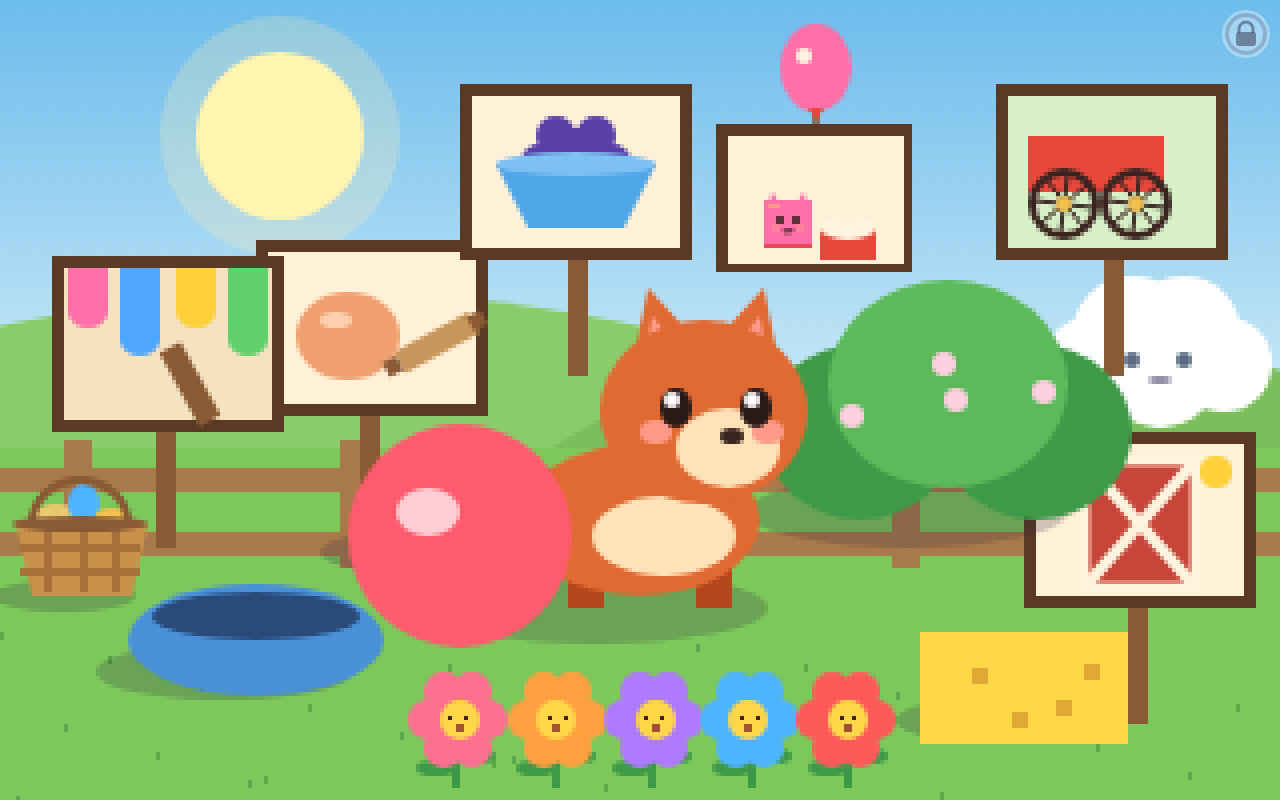
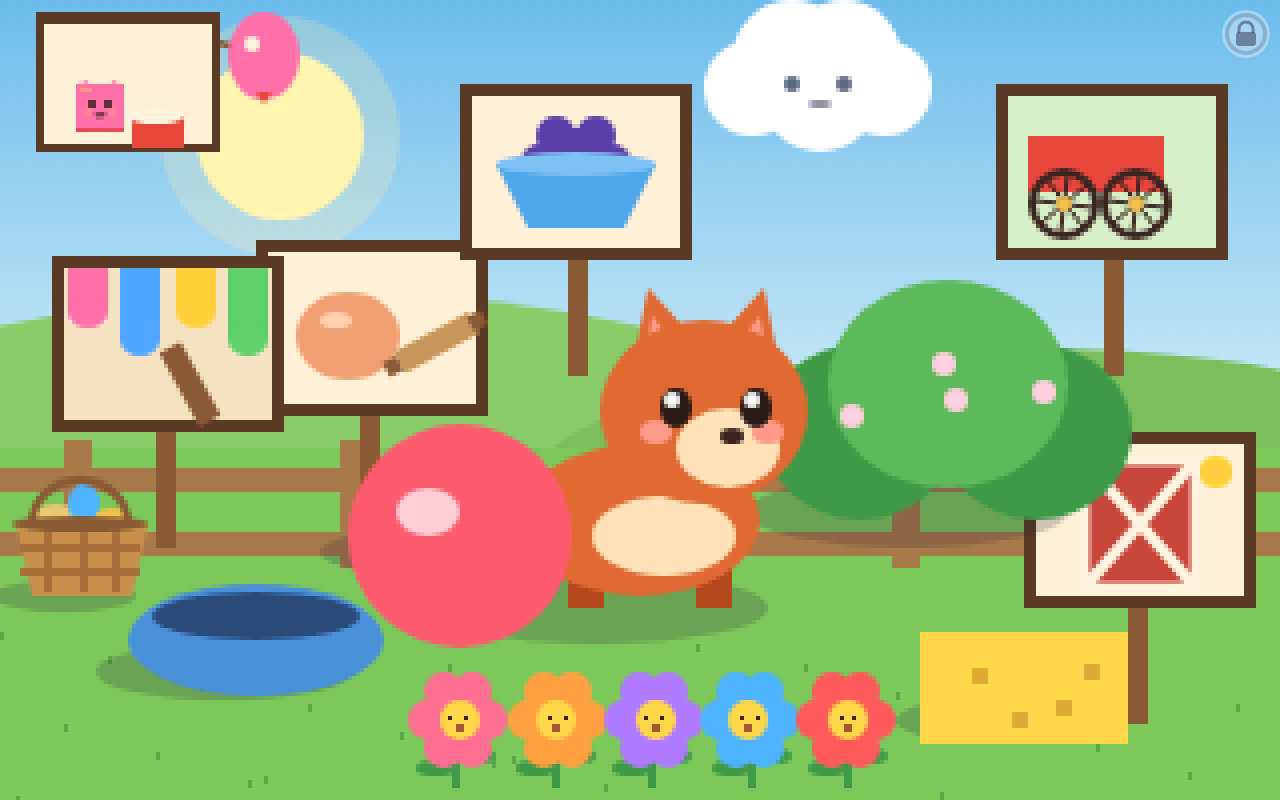
LR-TOYS-POLISH: place the cloud and the pack sign together in the sky.
The cloud stays at its home height and only slides sideways. The pack sign hangs beside the board when the sky has no room overhead. The face test covers the whole face region.

Changed region(s): [[0.5312, 0.0, 0.75, 0.3438], [0.0312, 0.0, 0.25, 0.1875], [0.8125, 0.3438, 1.0, 0.5312]]

diff --git a/games/little-ranch/game.js b/games/little-ranch/game.js
@@ -272,9 +272,12 @@
     const basket = { x0: L.basket.x - L.basket.r, x1: L.basket.x + L.basket.r, y0: L.basket.y - L.basket.r, y1: L.basket.y + L.basket.r };
     const meadow = [circ(L.bowl.x, L.bowl.y - R * .25, R * 1.15), circ(L.sponge.x, L.sponge.y, R * .8 * .75), circ(L.fhome.x, L.fhome.y - L.fz * .7, L.fz), basket, bushBox, body,
       ...[-1, 1].map(k => { const q = ballSpot(k); return circ(q.x, q.y, q.r); }), ...L.flowers.map(fl => circ(fl.x, fl.y, fl.r))];
-    // A short wide meadow has no full-size gap that stays off the baby, so a slightly smaller sign may sit in the sky.
+    // The cloud and the pack sign are chosen together. The cloud stays in the sky and only slides sideways. A balloon overhead is tried before one that hangs beside the board.
+    const anchor = { side: 0 };
     const search = (s, minMul) => {
       const rs = R * s * .95, yMax = fence - rs * .27 - 1; let best = null, cost = Infinity;
+      const ellHits = (p, rect) => { const nx = Math.max(rect.x0, Math.min(p.x, rect.x1)), ny = Math.max(rect.y0, Math.min(p.y, rect.y1)); return ((nx - p.x) / p.rx) ** 2 + ((ny - p.y) / p.ry) ** 2 <= 1; };
+      const puffs = (x, y, cr) => [[-.75, .15, .55], [.75, .15, .55], [-.3, -.15, .7], [.3, -.2, .65], [0, .2, .7]].map(([dx, dy, k]) => ({ x: x + dx * cr, y: y + dy * cr, rx: cr * k, ry: cr * k }));
       for (let y = rs * 1.2; y <= yMax; y += 3) for (let x = rs * .7; x < W - rs * .7; x += 3) {
         const q = { x, y }, f = faceOf(q, s), b = box(q, s, 'board'), post = box(q, s, 'post');
         if (b.x0 < 1 || b.x1 > W - 1 || b.y0 < 1 || b.y1 > H - 1) continue;
@@ -289,20 +292,26 @@
         if (overlap(b, body) || overlap(b, bushBox) || overlap(b, basket) || L.flowers.some(fl => Math.hypot(f.x - fl.x, f.y - fl.y) < fl.r + R * s * .55)) continue;
         const gapBox = (a, b2) => { const dx = Math.max(a.x0 - b2.x1, b2.x0 - a.x1), dy = Math.max(a.y0 - b2.y1, b2.y0 - a.y1); if (dx < 0 && dy < 0) return Math.max(dx, dy); if (dx < 0) return dy; if (dy < 0) return dx; return Math.hypot(dx, dy); };
         if (five.some(n => gapBox(b, box(L[n], 1, 'board')) < 6)) continue;
-        const cloud = L.cloud, cr = cloud.r;
+        const cloud = L.cloud, cr = cloud.r, side = anchor.side;
         const faceBox = { x0: cloud.x - cr * .55, x1: cloud.x + cr * .55, y0: cloud.y - cr * .25, y1: cloud.y + cr * .65 };
-        const bodyBox = { x0: cloud.x - cr * 1.35, x1: cloud.x + cr * 1.35, y0: cloud.y - cr * 1.05, y1: cloud.y + cr * .95 };
         const rainBox = { x0: cloud.x - cr * 1.25, x1: cloud.x + cr * 1.25, y0: cloud.y + cr * .3, y1: L.ground + 2 };
-        const br = rs * .42, balloon = { x0: q.x - br, x1: q.x + br, y0: b.y0 - br * 2.5, y1: b.y0 };
-        const string = { x0: q.x - Math.max(2, rs * .08), x1: q.x + Math.max(2, rs * .08), y0: balloon.y0, y1: b.y1 };
-        if (b.y1 > fence - 1 || balloon.y0 < 1 || balloon.x0 < 1 || balloon.x1 > W - 1) continue;
-        if (meadow.some(p => overlap(b, p) || overlap(balloon, p) || overlap(string, p))) continue;
-        if ([b, balloon, string].some(box2 => overlap(box2, faceBox) || overlap(box2, bodyBox) || overlap(box2, rainBox))) continue;
-        if (five.some(n => overlap(balloon, box(L[n], 1, 'board')) || overlap(balloon, box(L[n], 1, 'post')) || overlap(string, box(L[n], 1, 'board')))) continue;
+        const br = rs * .42, pad = Math.max(2, rs * .08);
+        const balloonX = q.x + side * (rs * .95 + br), balloonY = side ? b.y0 + br : 0;
+        const balloon = side ? { x0: balloonX - br * .9, x1: balloonX + br * .9, y0: balloonY - br * 1.05, y1: balloonY + br * 1.05 } : { x0: q.x - br, x1: q.x + br, y0: b.y0 - br * 2.5, y1: b.y0 };
+        const stringHits = rect => {
+          if (!side) return overlap({ x0: q.x - pad, x1: q.x + pad, y0: balloon.y0, y1: b.y1 }, rect);
+          for (let t = 0; t <= 1; t += .12) { const px = q.x + (balloonX - q.x) * t, py = b.y0 + (balloonY - b.y0) * t; if (px >= rect.x0 - pad && px <= rect.x1 + pad && py >= rect.y0 - pad && py <= rect.y1 + pad) return true; }
+          return false;
+        };
+        if (b.y1 > fence - 1 || balloon.y0 < 1 || balloon.x0 < 1 || balloon.x1 > W - 1 || balloon.y1 > H - 1) continue;
+        if (meadow.some(p => overlap(b, p) || overlap(balloon, p) || stringHits(p))) continue;
+        const onCloud = rect => overlap(rect, faceBox) || overlap(rect, rainBox) || puffs(cloud.x, cloud.y, cr).some(puff => ellHits(puff, rect));
+        if (onCloud(b) || onCloud(balloon) || stringHits(faceBox) || stringHits(rainBox) || puffs(cloud.x, cloud.y, cr).some(puff => stringHits({ x0: puff.x - puff.rx, x1: puff.x + puff.rx, y0: puff.y - puff.ry, y1: puff.y + puff.ry }))) continue;
+        if (five.some(n => overlap(balloon, box(L[n], 1, 'board')) || overlap(balloon, box(L[n], 1, 'post')) || stringHits(box(L[n], 1, 'board')))) continue;
         if (!ownsBoard(q, s)) continue;
         const weather = Math.hypot(f.x - sun.x, f.y - sun.y) < sun.r + R * s * .35 || Math.hypot(f.x - L.cloud.x, f.y - L.cloud.y) < L.cloud.r + R * s * .35;
-        const c = (y > L.ground ? 70 : 0) + (weather ? 80 : 0) + (s < 1 ? 8 : 0) + Math.abs(x - W * .58) * .15 + y * .04;
-        if (c < cost) { cost = c; best = { x, y, s }; }
+        const c = (y > L.ground ? 70 : 0) + (weather ? 80 : 0) + (s < 1 ? 8 : 0) + (side ? 2 : 0) + Math.abs(x - W * .58) * .15 + y * .04;
+        if (c < cost) { cost = c; best = { x, y, s, side }; }
       }
       return best;
     };
@@ -332,61 +341,69 @@
       }
       return winner(L.cloud.x, L.cloud.y) === 'cloud' && winner(sun.x, sun.y) === 'sun';
     }
-    // Full size first. Slide the cloud aside (still clear of the sun) before easing the face gap. Shrink only when a large sign will not fit, and not below 0.72 while any large spot remains.
-    // A cloud spot is refused when its body, eyes or mouth meet a sign board (the pack sign included) or the grown-up lock. The face stays on screen.
+    // One sky step. The cloud never drops below its home height or below the top sign row. It may slide sideways. The pack sign hangs beside the cloud only when no overhead balloon fits at that size.
     const tall = H >= W * 1.25, homeX = L.cloud.x, homeY = L.cloud.y, cr0 = L.cloud.r;
-    const cloudParts = (x, y) => [[-.75, .15, .55], [.75, .15, .55], [-.3, -.15, .7], [.3, -.2, .65], [0, .2, .7]].map(([dx, dy, k]) => ({ x: x + dx * cr0, y: y + dy * cr0, rx: cr0 * k, ry: cr0 * k })).concat([{ x: x - cr0 * .3, y: y + cr0 * .1, rx: cr0 * .07, ry: cr0 * .09 }, { x: x + cr0 * .3, y: y + cr0 * .1, rx: cr0 * .07, ry: cr0 * .09 }, { x, y: y + cr0 * .35, rx: cr0 * .12, ry: cr0 * .05 }]);
-    const partHits = (p, rect) => { const nx = Math.max(rect.x0, Math.min(p.x, rect.x1)), ny = Math.max(rect.y0, Math.min(p.y, rect.y1)); return ((nx - p.x) / p.rx) ** 2 + ((ny - p.y) / p.ry) ** 2 <= 1; };
-    const cloudHits = (x, y, extra) => {
-      const rects = five.map(n => box(L[n], 1, 'board')).concat(extra || []);
-      const lk = lockCanvas(); if (lk) rects.push(lk);
-      return cloudParts(x, y).some(p => rects.some(rect => partHits(p, rect)));
-    };
-    const faceOnScreen = (x, y) => cloudParts(x, y).slice(-3).every(p => p.x - p.rx >= 0 && p.x + p.rx <= W && p.y - p.ry >= 0 && p.y + p.ry <= H);
-    const cloudOk = (x, y) => x - cr0 * 1.3 >= 1 && x + cr0 * 1.3 <= W - 1 && Math.hypot(x - sun.x, y - sun.y) >= cr0 * 1.3 + L.U * .13 && faceOnScreen(x, y) && !cloudHits(x, y);
-    const z = L.size, hx0 = L.home.x + z * .42, hy0 = L.home.y - z * 1.25, hr = z * .66;
-    const headBox = { x0: hx0 - hr, x1: hx0 + hr, y0: hy0 - hr * 1.25, y1: hy0 + hr };
-    const br = L.R * 1.25, bx = L.bush.x, by = L.bush.y;
-    const bushE = [{ x: bx - br * .55, y: by - br * .3, rx: br * .6, ry: br * .55 }, { x: bx + br * .55, y: by - br * .3, rx: br * .6, ry: br * .55 }, { x: bx, y: by - br * .6, rx: br * .75, ry: br * .65 }];
-    const onBush = p => bushE.some(e => {
-      if (((p.x - e.x) / e.rx) ** 2 + ((p.y - e.y) / e.ry) ** 2 <= 1) return true;
-      for (let k = 0; k < 10; k++) { const a = k / 10 * 6.2832; if (((p.x + Math.cos(a) * p.rx - e.x) / e.rx) ** 2 + ((p.y + Math.sin(a) * p.ry - e.y) / e.ry) ** 2 <= 1) return true; }
-      return false;
-    });
-    const postsOf = () => five.map(n => box(L[n], 1, 'post'));
-    // The eyes and mouth have to stay off the posts, the bush and the baby's head, or the face is painted over.
+    const rowY = Math.min(...five.map(n => L[n].y));
+    const skyFloor = Math.max(...five.filter(n => L[n].y <= rowY + R * .35).map(n => box(L[n], 1, 'board').y1));
+    const yCloud = Math.min(homeY, skyFloor);
+    const faceRect = (x, y) => ({ x0: x - cr0 * .55, x1: x + cr0 * .55, y0: y - cr0 * .25, y1: y + cr0 * .65 });
+    const hitCirc = (rect, c) => { const nx = Math.max(rect.x0, Math.min(c.x, rect.x1)), ny = Math.max(rect.y0, Math.min(c.y, rect.y1)); return (nx - c.x) ** 2 + (ny - c.y) ** 2 <= c.r * c.r; };
+    const ellHits = (p, rect) => { const nx = Math.max(rect.x0, Math.min(p.x, rect.x1)), ny = Math.max(rect.y0, Math.min(p.y, rect.y1)); return ((nx - p.x) / p.rx) ** 2 + ((ny - p.y) / p.ry) ** 2 <= 1; };
+    const puffsAt = (x, y) => [[-.75, .15, .55], [.75, .15, .55], [-.3, -.15, .7], [.3, -.2, .65], [0, .2, .7]].map(([dx, dy, k]) => ({ x: x + dx * cr0, y: y + dy * cr0, rx: cr0 * k, ry: cr0 * k }));
+    const boards = () => five.map(n => box(L[n], 1, 'board'));
+    const posts = () => five.map(n => box(L[n], 1, 'post'));
+    const puddleRects = L.puddles.map(p => ({ x0: p.x - p.r, x1: p.x + p.r, y0: p.y - p.r, y1: p.y + p.r }));
     const faceOpen = (x, y) => {
-      const posts = postsOf();
-      return cloudParts(x, y).slice(-3).every(p => !posts.some(rect => partHits(p, rect)) && !onBush(p) && !partHits(p, headBox));
+      const face = faceRect(x, y), lk = lockCanvas();
+      if (face.x0 < 0 || face.x1 > W || face.y0 < 0 || face.y1 > H) return false;
+      const blockers = boards().concat(posts(), meadow, puddleRects, lk ? [lk] : []);
+      return !blockers.some(r => overlap(face, r)) && !hitCirc(face, { x: sun.x, y: sun.y, r: L.U * .09 });
     };
-    const xSeeds = [homeX, W * .78, W * .88, W * .72, W * .68, W * .6, W * .5, W * .42, W * .3, W * .2, W * .12];
-    for (let x = W - cr0 * 1.3 - 1; x >= cr0 * 1.3 + 1; x -= Math.max(4, cr0 * .2)) xSeeds.push(x);
-    const ySeeds = [homeY];
-    for (let dy = cr0 * .35; homeY + dy < L.ground - cr0 * .2; dy += cr0 * .35) ySeeds.push(homeY + dy);
-    const spotsAt = y => { const xs = []; return xSeeds.filter(x => { if (xs.some(v => Math.abs(v - x) < .5) || !cloudOk(x, y)) return false; xs.push(x); return true; }); };
-    const placeAt = scales => {
-      const muls = tall ? [2.5, 2, 1.8] : [2.5, 1.5, 1.4];
-      for (const s of scales) for (const mul of muls) for (const y of ySeeds) for (const x of spotsAt(y)) {
-        L.cloud.x = x; L.cloud.y = y;
+    const bodyClear = (x, y, extra) => {
+      const rects = boards().concat(extra || []); const lk = lockCanvas(); if (lk) rects.push(lk);
+      return !puffsAt(x, y).some(puff => rects.some(rect => ellHits(puff, rect)));
+    };
+    const skyClear = (x, y) => y <= skyFloor + .01 && y <= homeY + .01 && x - cr0 * 1.3 >= 1 && x + cr0 * 1.3 <= W - 1 && Math.hypot(x - sun.x, y - sun.y) >= cr0 * 1.3 + L.U * .13 && faceOpen(x, y);
+    const cloudOk = (x, y) => skyClear(x, y) && bodyClear(x, y);
+    const xs = [];
+    const pushX = (x, ok) => { if (!xs.some(v => Math.abs(v - x) < .5) && ok(x, yCloud)) xs.push(x); };
+    const fillX = ok => { pushX(homeX, ok); for (let x = cr0 * 1.3 + 1; x <= W - cr0 * 1.3 - 1; x += Math.max(4, cr0 * .2)) pushX(x, ok); };
+    fillX(cloudOk);
+    // A short screen can have sign boards across the whole sky. The face still has to stay clear. The body stays off the boards wherever that is possible.
+    if (!xs.length) fillX(skyClear);
+    xs.sort((a, b) => Math.abs(a - homeX) - Math.abs(b - homeX));
+    const kiteOf = (q, s, side) => {
+      if (!side) return null;
+      const rs = R * s * .95, br = rs * .42, top = q.y - rs * 1.17, bx = q.x + side * (rs * .95 + br), by = top + br;
+      return { x0: bx - br * .9, x1: bx + br * .9, y0: by - br * 1.05, y1: by + br * 1.05 };
+    };
+    let placed = null;
+    const muls = tall ? [2.5, 2, 1.8] : [2.5, 1.5, 1.4];
+    const scales = [1, .9, .85, .8, .78, .75, .72, .6, .55, .48, .4, .34, .28];
+    const accept = (x, y, hit, s, side) => {
+      const kite = kiteOf(hit, s, side), face = faceRect(x, y);
+      return bodyClear(x, y, [box(hit, s, 'board')].concat(kite ? [kite] : [])) && !overlap(face, box(hit, s, 'board')) && !(kite && overlap(face, kite));
+    };
+    const tryAt = (xList, y) => {
+      for (const s of scales) for (const mul of muls) for (const x of xList) for (const side of [0, 1, -1]) {
+        L.cloud.x = x; L.cloud.y = y; anchor.side = side;
         const hit = search(s, mul);
-        if (!(hit && !cloudHits(x, y, [box(hit, s, 'board')]))) continue;
-        let chosen = { x, y, hit };
-        if (!faceOpen(x, y)) {
-          for (let dx = cr0; dx >= -cr0; dx -= Math.max(2, cr0 * .08)) {
-            const nx = x + dx;
-            if (Math.abs(dx) < .5 || !cloudOk(nx, y) || !faceOpen(nx, y)) continue;
-            L.cloud.x = nx; L.cloud.y = y;
-            const h2 = search(s, mul);
-            if (h2 && !cloudHits(nx, y, [box(h2, s, 'board')])) { chosen = { x: nx, y, hit: h2 }; break; }
-          }
-        }
-        L.cloud.x = chosen.x; L.cloud.y = chosen.y;
-        return chosen.hit;
+        if (hit && accept(x, y, hit, s, side)) return hit;
       }
       return null;
     };
-    const placed = placeAt([1, .9, .85, .8, .78, .75, .72]) || placeAt([.6, .55, .48, .4, .34, .28]);
-    if (!placed) { const y = ySeeds.find(y2 => spotsAt(y2).length) || homeY; L.cloud.x = (spotsAt(y)[0]) || homeX; L.cloud.y = y; }
+    placed = tryAt(xs, yCloud);
+    // The reviewed sizes all have a clear sky slot. A shorter screen can have none: slide further, still at sky height, before giving up.
+    if (!placed) {
+      const wide = [];
+      const pushWide = x => { if (x - cr0 * 1.3 >= 1 && x + cr0 * 1.3 <= W - 1 && !wide.some(v => Math.abs(v - x) < .5)) wide.push(x); };
+      pushWide(homeX);
+      for (let x = cr0 * 1.3 + 1; x <= W - cr0 * 1.3 - 1; x += Math.max(4, cr0 * .2)) pushWide(x);
+      wide.sort((a, b) => Math.abs(a - homeX) - Math.abs(b - homeX));
+      placed = tryAt(wide, yCloud);
+    }
+    anchor.side = 0;
+    if (!placed) { L.cloud.x = xs[0] || homeX; L.cloud.y = yCloud; }
     return placed || skySign(tall ? 1.8 : 1.4);
     function skySign(minMul) {
       const s = .28, rs = R * s * .95, br = rs * .42, y = fence - rs * .27 - 2;
@@ -1317,11 +1334,12 @@
   }
   function drawPSign(g) {
     const s = L.psign, r = L.R * .95 * (s.s || 1), sh = Math.sin(st.t * 30) * st.psign.shake * r * .06, bob = hintBob('psign');
-    const bx = s.x + sh, by = s.y - r * .45 - bob, boardTop = by - r * .72, br = r * .42, balloonY = boardTop - br * 1.25;
+    const bx = s.x + sh, by = s.y - r * .45 - bob, boardTop = by - r * .72, br = r * .42, side = s.side || 0;
+    const balloonX = side ? bx + side * (r * .95 + br) : bx, balloonY = side ? boardTop + br : boardTop - br * 1.25;
     const string = g > .6 ? mixHex('#8a5a34', '#20203a', .6) : '#8a5a34', balloon = g > .6 ? mixHex('#ff6fa8', '#20203a', .6) : '#ff6fa8', shine = g > .6 ? mixHex('#fff4e0', '#20203a', .6) : '#fff4e0';
-    cx.strokeStyle = string; cx.lineWidth = Math.max(1.5, r * .06); cx.beginPath(); cx.moveTo(R(bx), R(boardTop)); cx.lineTo(R(bx), R(balloonY + br * .85)); cx.stroke();
-    ell(bx, balloonY, br * .86, br * 1.05, balloon); ell(bx - br * .28, balloonY - br * .32, br * .22, br * .16, shine);
-    cx.fillStyle = g > .6 ? mixHex('#e8483c', '#20203a', .6) : '#e8483c'; cx.beginPath(); cx.moveTo(R(bx - r * .08), R(balloonY + br * .9)); cx.lineTo(R(bx + r * .08), R(balloonY + br * .9)); cx.lineTo(R(bx), R(balloonY + br * 1.15)); cx.fill();
+    cx.strokeStyle = string; cx.lineWidth = Math.max(1.5, r * .06); cx.beginPath(); cx.moveTo(R(bx), R(boardTop)); cx.lineTo(R(balloonX), R(side ? balloonY : balloonY + br * .85)); cx.stroke();
+    ell(balloonX, balloonY, br * .86, br * 1.05, balloon); ell(balloonX - br * .28, balloonY - br * .32, br * .22, br * .16, shine);
+    cx.fillStyle = g > .6 ? mixHex('#e8483c', '#20203a', .6) : '#e8483c'; cx.beginPath(); cx.moveTo(R(balloonX - r * .08), R(balloonY + br * .9)); cx.lineTo(R(balloonX + r * .08), R(balloonY + br * .9)); cx.lineTo(R(balloonX), R(balloonY + br * 1.15)); cx.fill();
     cx.save(); cx.translate(R(bx), R(by)); cx.fillStyle = pick3('#5a3a24', '#5a3a24', '#1e1a24', g); cx.fillRect(R(-r * .95), R(-r * .72), R(r * 1.9), R(r * 1.44));
     cx.fillStyle = pick3('#fff0d8', '#f0d8a0', '#4a4458', g); cx.fillRect(R(-r * .85), R(-r * .62), R(r * 1.7), R(r * 1.24)); cx.restore();
     drawBlock(bx - r * .28, s.y - r * .2 - bob, r * .48, 0, 0, g);
@@ -1422,12 +1440,12 @@
     if (g > .6) { const k = clamp((g - .6) / .4, 0, 1), mg = st.moon.song ? 1 : st.moon.glow, pulse = st.moon.song ? clamp(1 - (st.t - st.moon.song.beat) / BEAT, 0, 1) * .25 : 0;
       if (mg > 0) { ell(W * .8, lerp(L.ground, H * .16, k), U * (.11 + mg * .05 + pulse * .03), U * (.11 + mg * .05 + pulse * .03), `rgba(240,240,200,${.12 + mg * .2 + pulse * .2})`); }
       ell(W * .8, lerp(L.ground, H * .16, k), U * .07, U * .07, '#f4f0d8'); ell(W * .8 + U * .03, lerp(L.ground, H * .16, k) - U * .02, U * .06, U * .06, (mg > 0 ? mixHex('#121a44', '#5a5e6e', clamp((.12 + mg * .2 + pulse * .2) / .37, 0, 1)) : '#121a44')); }
+    drawCloud(g);
     ell(W * .25, L.ground + U * .05, W * .45, U * .22, pick3('#8acb6a', '#a0a050', '#2a4a48', g)); ell(W * .8, L.ground + U * .07, W * .4, U * .18, pick3('#7abf5c', '#909848', '#24423f', g));
     cx.fillStyle = pick3('#7cc85a', '#b0a050', '#2a4a40', g); cx.fillRect(0, R(L.ground), W, H - R(L.ground));
     cx.fillStyle = pick3('#a87a4a', '#a06a3a', '#3a2e38', g); const fy = L.ground + U * .02; cx.fillRect(0, R(fy), W, Math.max(1, R(U * .025))); cx.fillRect(0, R(fy + U * .07), W, Math.max(1, R(U * .025)));
     for (let x = W * .05; x < W; x += U * .3) cx.fillRect(R(x), R(fy - U * .03), Math.max(2, R(U * .03)), R(U * .14));
     for (let i = 0; i < 30; i++) { const x = (i * 61.7) % W, y = L.ground + U * .2 + (i * 37.1) % (H - L.ground - U * .2); cx.fillStyle = pick3('#5aa848', '#8a8a40', '#1e3a36', g); cx.fillRect(R(x), R(y), 1, 2); }
-    drawCloud(g);
     drawHint();
     drawPuddles(); drawBasket(g); drawDSign(g); drawTSign(g); drawPSign(g); drawSign(g); drawWheelSign(g); drawKSign(g);
     const hidden = st.baby.act === 'hide' || st.baby.act === 'peek';

diff --git a/tests/little-ranch.html b/tests/little-ranch.html
@@ -1006,7 +1006,8 @@ document.querySelector('#run').onclick = async () => {
           const Ls = L(), cloud = Ls.cloud, pb = boardOf('psign'), cr = cloud.r, fence = Ls.ground + Ls.U * .02;
           const faceBox = { x0: cloud.x - cr * .55, x1: cloud.x + cr * .55, y0: cloud.y - cr * .25, y1: cloud.y + cr * .65 };
           const rainBox = { x0: cloud.x - cr * 1.25, x1: cloud.x + cr * 1.25, y0: cloud.y + cr * .3, y1: Ls.ground };
-          const br = Ls.R * .95 * (Ls.psign.s || 1) * .42, balloon = { x0: Ls.psign.x - br, x1: Ls.psign.x + br, y0: pb.y0 - br * 2.3, y1: pb.y0 };
+          const signS = Ls.psign.s || 1, rsSign = Ls.R * .95 * signS, br = rsSign * .42, side = Ls.psign.side || 0;
+          const balloon = side ? { x0: Ls.psign.x + side * (rsSign * .95 + br) - br * .9, x1: Ls.psign.x + side * (rsSign * .95 + br) + br * .9, y0: pb.y0 + br - br * 1.05, y1: pb.y0 + br + br * 1.05 } : { x0: Ls.psign.x - br, x1: Ls.psign.x + br, y0: pb.y0 - br * 2.3, y1: pb.y0 };
           const meadow = [circ(Ls.bowl.x, Ls.bowl.y - Ls.R * .25, Ls.R * 1.15), circ(Ls.sponge.x, Ls.sponge.y, Ls.R * .8 * .75), circ(Ls.fhome.x, Ls.fhome.y - Ls.fz * .7, Ls.fz),
             { x0: Ls.basket.x - Ls.basket.r, x1: Ls.basket.x + Ls.basket.r, y0: Ls.basket.y - Ls.basket.r, y1: Ls.basket.y + Ls.basket.r }, ...ballRest(Ls), ...Ls.flowers.map(fl => circ(fl.x, fl.y, fl.r))];
           const label = `${width}×${height}${dpr > 1 ? ' at DPR ' + dpr : ''}`;
@@ -1017,22 +1018,36 @@ document.querySelector('#run').onclick = async () => {
           let boardTaps = 0, boardOk = 0;
           for (let i = 0; i <= 18; i++) for (let j = 0; j <= 14; j++) { boardTaps++; if (LR.ranchTarget({ x: Ls.psign.x - rsNow * .95 + i * rsNow * 1.9 / 18, y: Ls.psign.y - rsNow * 1.17 + j * rsNow * 1.44 / 14 }) === 'psign') boardOk++; }
           check(`${label}: the pack sign stays at least 0.72 scale (${signScale}) and its tap is ${Math.round(cssW)}×${Math.round(cssH)} CSS px, with no big drop from a full-size sign (${Math.round(areaDrop * 100)}% smaller) and ${boardOk} of ${boardTaps} board taps`, signScale >= .72 && Math.min(cssW, cssH) >= 44 && areaDrop <= 1 - .72 * .72 + 1e-9 && boardOk === boardTaps);
-          const puffs = [[-.75, .15, .55], [.75, .15, .55], [-.3, -.15, .7], [.3, -.2, .65], [0, .2, .7]].map(([dx, dy, k]) => ({ x: cloud.x + dx * cr, y: cloud.y + dy * cr, rx: cr * k, ry: cr * k }));
-          const eyes = [{ x: cloud.x - cr * .3, y: cloud.y + cr * .1, rx: cr * .07, ry: cr * .09 }, { x: cloud.x + cr * .3, y: cloud.y + cr * .1, rx: cr * .07, ry: cr * .09 }];
-          const mouth = { x: cloud.x, y: cloud.y + cr * .35, rx: cr * .12, ry: cr * .05 };
-          const inEll = (p, x, y) => ((x - p.x) / p.rx) ** 2 + ((y - p.y) / p.ry) ** 2 <= 1;
-          const inBox = (r, x, y) => x >= r.x0 && x <= r.x1 && y >= r.y0 && y <= r.y1;
+          const postOf = n => { const q = Ls[n], rs = Ls.R * .95 * (q.s || 1); return { x0: q.x - rs * .08, x1: q.x + rs * .08, y0: q.y - rs * .2, y1: q.y + rs * 1.2 }; };
+          const names = ['sign', 'wsign', 'ksign', 'tsign', 'dsign'];
+          const rowY = Math.min(...names.map(n => Ls[n].y)), homeY = Math.max(cv.height * .08, Ls.U * .08);
+          const skyFloor = Math.max(...names.filter(n => Ls[n].y <= rowY + Ls.R * .35).map(n => boardOf(n).y1));
+          const face = { x0: cloud.x - cr * .55, x1: cloud.x + cr * .55, y0: cloud.y - cr * .25, y1: cloud.y + cr * .65 };
           const lkEl = d.querySelector('#lock').getBoundingClientRect(), cvR = cv.getBoundingClientRect();
           const lockR = { x0: (lkEl.left - cvR.left) / cvR.width * cv.width - 3, y0: (lkEl.top - cvR.top) / cvR.height * cv.height - 3, x1: (lkEl.right - cvR.left) / cvR.width * cv.width + 3, y1: (lkEl.bottom - cvR.top) / cvR.height * cv.height + 3 };
-          const blockers = ['sign', 'wsign', 'ksign', 'tsign', 'dsign', 'psign'].map(boardOf).concat([lockR]);
+          const babyBox = { x0: Ls.home.x - Ls.size * 1.05, x1: Ls.home.x + Ls.size * 1.15, y0: Ls.home.y - Ls.size * 1.7, y1: Ls.home.y };
+          const bushBox = { x0: Ls.bush.x - Ls.R, x1: Ls.bush.x + Ls.R, y0: Ls.bush.y - Ls.R * 1.4, y1: Ls.bush.y + Ls.R * .2 };
+          const puddleRects = Ls.puddles.map(p => ({ x0: p.x - p.r, x1: p.x + p.r, y0: p.y - p.r, y1: p.y + p.r }));
+          const faceBlock = names.flatMap(n => [boardOf(n), postOf(n)]).concat([pb, balloon, bushBox, babyBox, lockR], meadow, puddleRects);
+          const sunHit = (() => { const c = { x: Ls.sun.x, y: Ls.sun.y, r: Ls.U * .09 }, nx = Math.max(face.x0, Math.min(c.x, face.x1)), ny = Math.max(face.y0, Math.min(c.y, face.y1)); return (nx - c.x) ** 2 + (ny - c.y) ** 2 <= c.r * c.r; })();
+          const faceIn = face.x0 >= 0 && face.x1 <= cv.width && face.y0 >= 0 && face.y1 <= cv.height;
+          const faceClear = faceIn && !sunHit && faceBlock.every(r => !overlap(face, r));
+          const sky = cloud.y <= skyFloor + .01 && cloud.y <= homeY + .01;
+          const puffs = [[-.75, .15, .55], [.75, .15, .55], [-.3, -.15, .7], [.3, -.2, .65], [0, .2, .7]].map(([dx, dy, k]) => ({ x: cloud.x + dx * cr, y: cloud.y + dy * cr, rx: cr * k, ry: cr * k }));
+          const inEll = (p, x, y) => ((x - p.x) / p.rx) ** 2 + ((y - p.y) / p.ry) ** 2 <= 1;
+          const inBox = (r, x, y) => x >= r.x0 && x <= r.x1 && y >= r.y0 && y <= r.y1;
+          const boards = names.concat(['psign']).map(boardOf).concat([lockR]);
           let bodyN = 0, bodyHit = 0;
           for (let y = cloud.y - cr * 1.4; y <= cloud.y + cr * 1.2; y += .5) for (let x = cloud.x - cr * 1.4; x <= cloud.x + cr * 1.4; x += .5) {
             if (!puffs.some(p => inEll(p, x, y))) continue;
-            bodyN++; if (blockers.some(r => inBox(r, x, y))) bodyHit++;
+            bodyN++; if (boards.some(r => inBox(r, x, y))) bodyHit++;
           }
-          const open = part => { let n = 0, ok = 0; for (let y = part.y - part.ry; y <= part.y + part.ry; y += .25) for (let x = part.x - part.rx; x <= part.x + part.rx; x += .25) { if (!inEll(part, x, y)) continue; n++; if (x >= 0 && x <= cv.width && y >= 0 && y <= cv.height && blockers.every(r => !inBox(r, x, y))) ok++; } return n > 0 && ok === n; };
           const covered = bodyN ? bodyHit / bodyN : 0;
-          check(`${label}: the cloud at ${cloud.x.toFixed(1)}, ${cloud.y.toFixed(1)} has 0% of its body on a sign board or the lock (${(covered * 100).toFixed(1)}%) and its face and mouth are fully visible`, bodyHit === 0 && eyes.every(open) && open(mouth));
+          const wagonGap = rectGap(pb, boardOf('wsign'));
+          const rainClear = !overlap(pb, rainBox) && !overlap(balloon, rainBox);
+          const meadowClear = meadow.every(p => !overlap(pb, p) && !overlap(balloon, p));
+          const balloonIn = balloon.y0 >= 0 && balloon.x0 >= 0 && balloon.x1 <= cv.width && balloon.y1 <= cv.height;
+          check(`${label}: cloud ${cloud.x.toFixed(1)}, ${cloud.y.toFixed(1)} stays in the sky (${sky ? 'yes' : 'no'}, floor ${skyFloor.toFixed(1)}), its face is clear (${faceClear ? 'yes' : 'no'}), body overlap is ${(covered * 100).toFixed(1)}%, sign scale ${signScale} with ${boardOk}/${boardTaps} taps, balloon on screen (${balloonIn ? 'yes' : 'no'}), wagon gap ${wagonGap.toFixed(1)}, rain clear (${rainClear ? 'yes' : 'no'}), meadow and fence clear (${meadowClear && pb.y1 <= fence - 1 && balloon.y1 <= fence ? 'yes' : 'no'})`, sky && faceClear && bodyHit === 0 && signScale >= .72 && boardOk === boardTaps && balloonIn && wagonGap >= 6 && rainClear && meadowClear && pb.y1 <= fence - 1 && balloon.y1 <= fence);
         }
       } finally { restoreDpr(); }
       frame.style.width = '844px'; frame.style.height = '390px'; await sleep(150); LR.newVisit(); LR.advance(.1);

diff --git a/docs/playtests/lr-toys-polish/after/README.md b/docs/playtests/lr-toys-polish/after/README.md
@@ -9,4 +9,6 @@ Captured in headless Chrome from the follow-up that answers the art director's t
 | iPad 820×1180, DPR 2 | [ipad-820x1180-sign.png](ipad-820x1180-sign.png) | [ipad-820x1180-tower.png](ipad-820x1180-tower.png) | [ipad-820x1180-tower-20.png](ipad-820x1180-tower-20.png) | [ipad-820x1180-band.png](ipad-820x1180-band.png) | [ipad-820x1180-shed.png](ipad-820x1180-shed.png) |
 | Phone 390×844, DPR 2 | [phone-390x844-sign.png](phone-390x844-sign.png) | [phone-390x844-tower.png](phone-390x844-tower.png) | [phone-390x844-tower-20.png](phone-390x844-tower-20.png) | [phone-390x844-band.png](phone-390x844-band.png) | [phone-390x844-shed.png](phone-390x844-shed.png) |
 
+The pack sign at 375×812 is [375x812-sign.png](375x812-sign.png).
+
 Before pictures, from main, are in [../before](../before).
